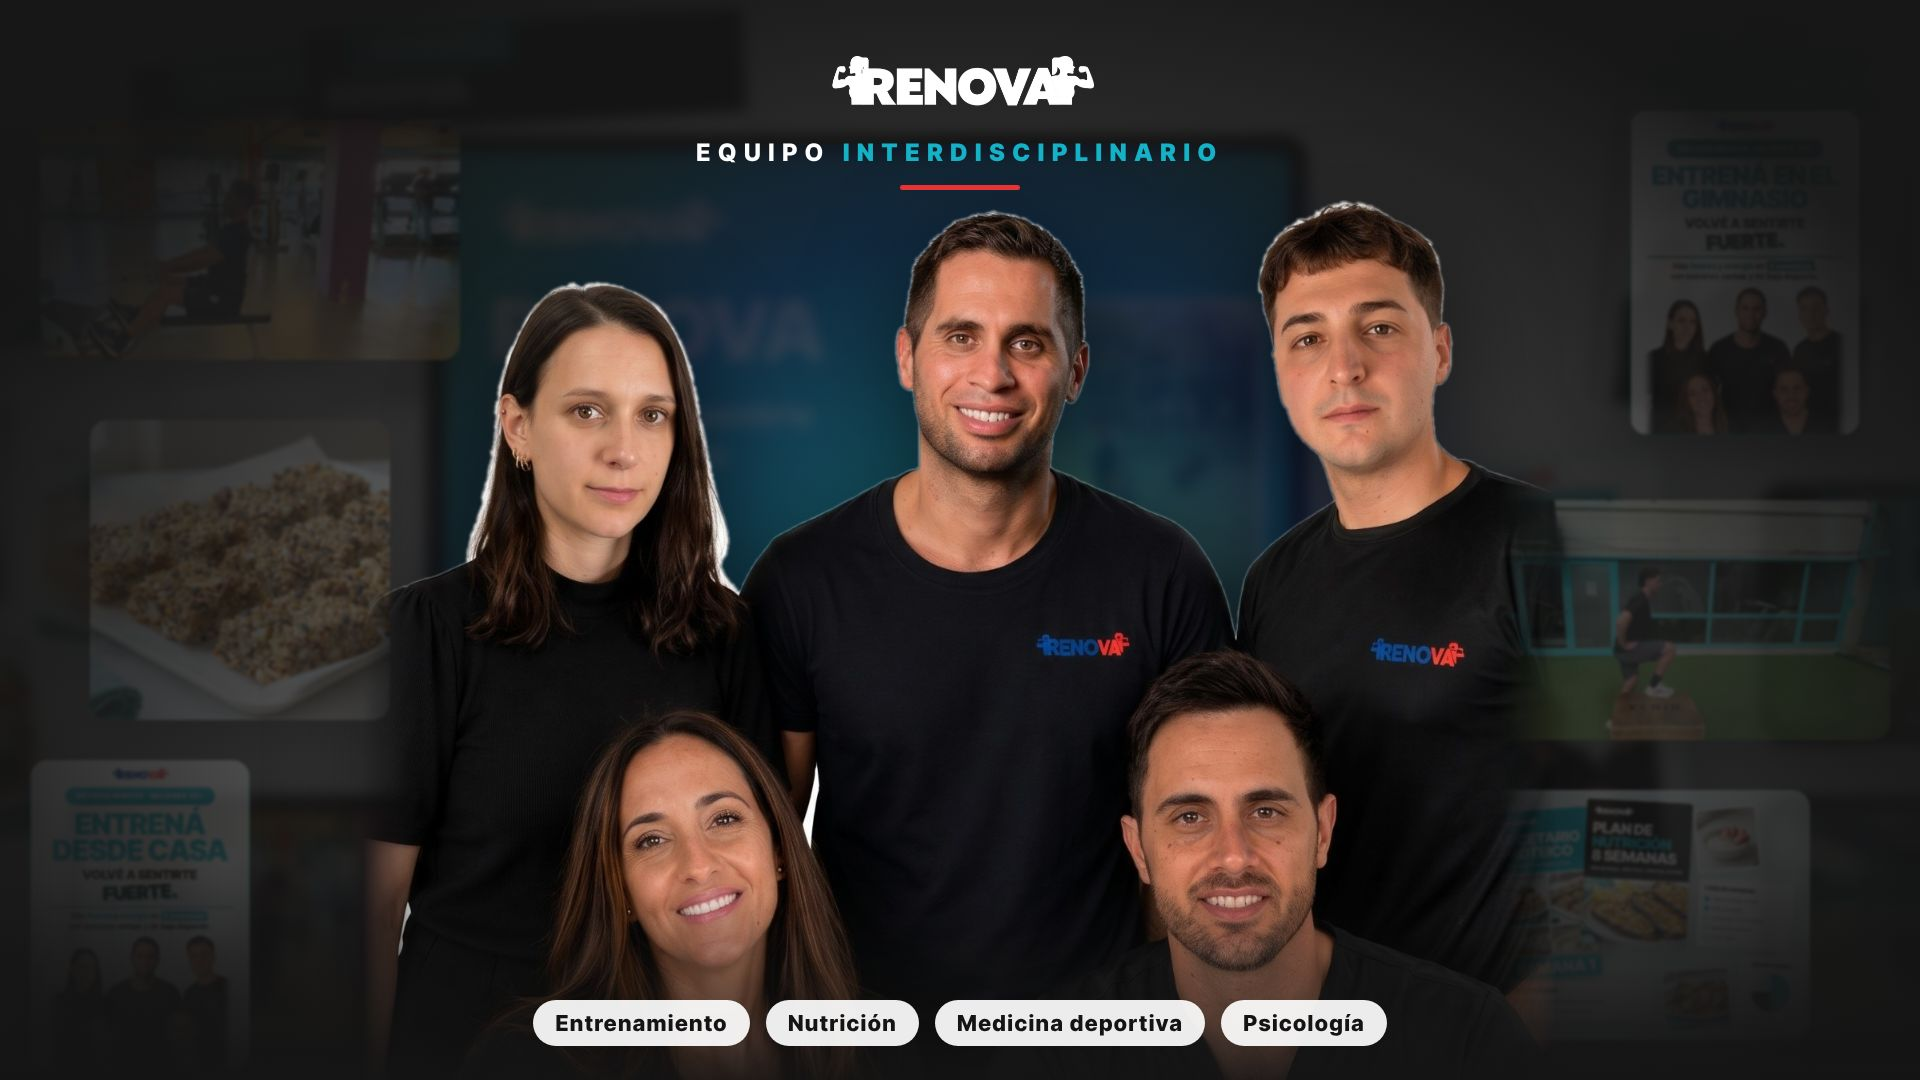
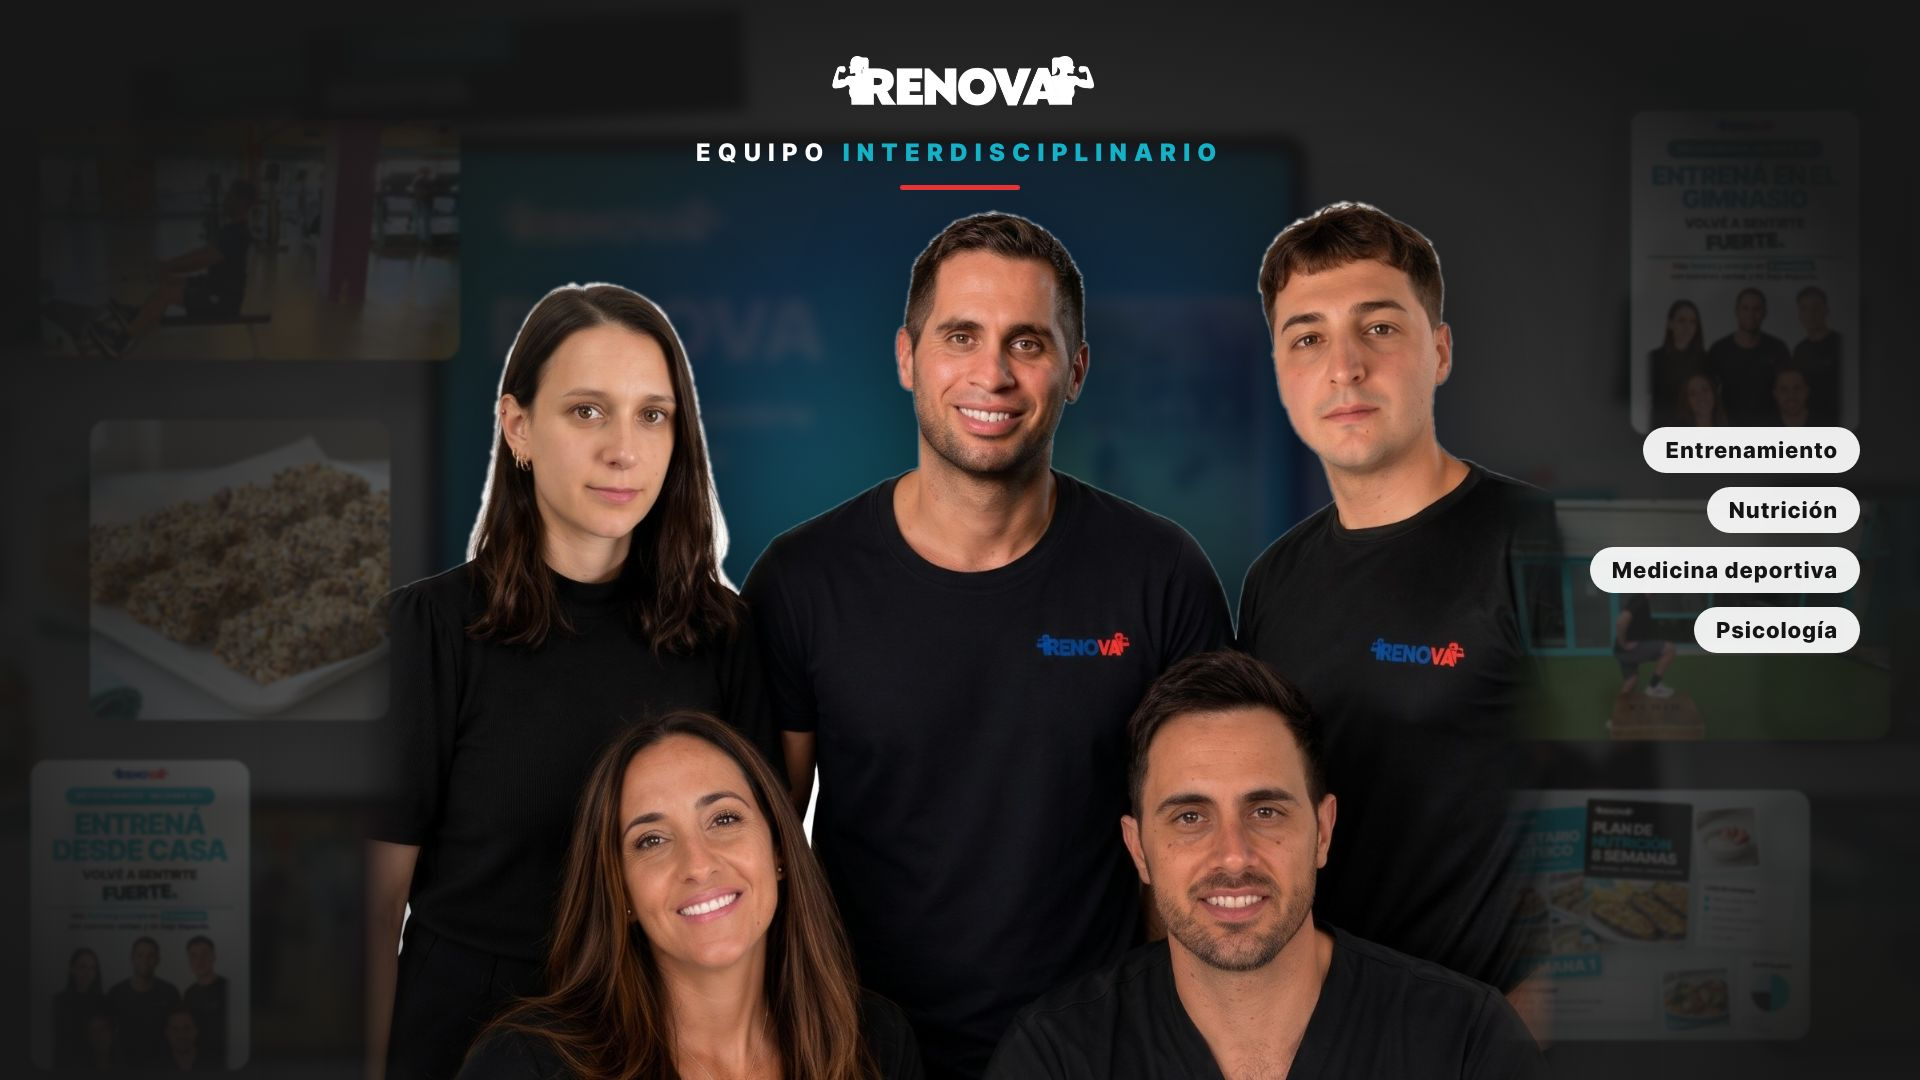
Landing: etiquetas del equipo al costado para no tapar caras
Claude-Session: https://claude.ai/code/session_01BK5fVJJTfveceUzp1xzv1m

Changed region(s): [[0.2812, 0.825, 0.7188, 1.0], [0.8125, 0.3972, 0.9688, 0.6111], [0.7812, 0.9167, 0.8125, 0.9778]]

diff --git a/fuentes/landing/mockups/vsl.html b/fuentes/landing/mockups/vsl.html
@@ -111,7 +111,7 @@ body{width:1920px;height:1080px;background:var(--rnv-tinta)}
 .top p b{color:var(--rnv-turquesa)}
 .line{width:120px;height:5px;background:var(--rnv-rojo);margin:18px auto 0;border-radius:3px}
 .fade{position:absolute;left:0;right:0;bottom:0;height:200px;background:linear-gradient(transparent,rgba(20,20,20,.92))}
-.foot{position:absolute;bottom:34px;left:0;right:0;display:flex;justify-content:center;gap:16px}
+.foot{position:absolute;right:60px;top:50%;transform:translateY(-50%);display:flex;flex-direction:column;align-items:flex-end;gap:14px}
 .foot span{background:rgba(255,255,255,.92);color:var(--rnv-tinta);font-weight:800;font-size:22px;padding:10px 22px;border-radius:99px;letter-spacing:.04em}
 </style>
 <div class="bg"></div>
@@ -120,4 +120,4 @@ body{width:1920px;height:1080px;background:var(--rnv-tinta)}
 <div class="vig"></div><div class="glow"></div>
 <img class="team" src="../img/equipo_tapa.png" alt="Equipo RENOVA">
 <div class="top"><img src="../img/logo.png"><p>Equipo <b>interdisciplinario</b></p><div class="line"></div></div>
-<div class="fade"></div><div class="foot"><span>Entrenamiento</span><span>Nutrición</span><span>Medicina deportiva</span><span>Psicología</span></div>
+<div class="foot"><span>Entrenamiento</span><span>Nutrición</span><span>Medicina deportiva</span><span>Psicología</span></div>

diff --git a/fuentes/landing/mockups/mockups.py b/fuentes/landing/mockups/mockups.py
@@ -103,7 +103,7 @@ body{{width:1920px;height:1080px;background:var(--rnv-tinta)}}
 .top p b{{color:var(--rnv-turquesa)}}
 .line{{width:120px;height:5px;background:var(--rnv-rojo);margin:18px auto 0;border-radius:3px}}
 .fade{{position:absolute;left:0;right:0;bottom:0;height:200px;background:linear-gradient(transparent,rgba(20,20,20,.92))}}
-.foot{{position:absolute;bottom:34px;left:0;right:0;display:flex;justify-content:center;gap:16px}}
+.foot{{position:absolute;right:60px;top:50%;transform:translateY(-50%);display:flex;flex-direction:column;align-items:flex-end;gap:14px}}
 .foot span{{background:rgba(255,255,255,.92);color:var(--rnv-tinta);font-weight:800;font-size:22px;padding:10px 22px;border-radius:99px;letter-spacing:.04em}}
 </style>
 <div class="bg"></div>
@@ -112,6 +112,6 @@ body{{width:1920px;height:1080px;background:var(--rnv-tinta)}}
 <div class="vig"></div><div class="glow"></div>
 <img class="team" src="{I}equipo_tapa.png" alt="Equipo RENOVA">
 <div class="top"><img src="{I}logo.png"><p>Equipo <b>interdisciplinario</b></p><div class="line"></div></div>
-<div class="fade"></div><div class="foot"><span>Entrenamiento</span><span>Nutrición</span><span>Medicina deportiva</span><span>Psicología</span></div>
+<div class="foot"><span>Entrenamiento</span><span>Nutrición</span><span>Medicina deportiva</span><span>Psicología</span></div>
 """
 Path("vsl.html").write_text(VSL)
